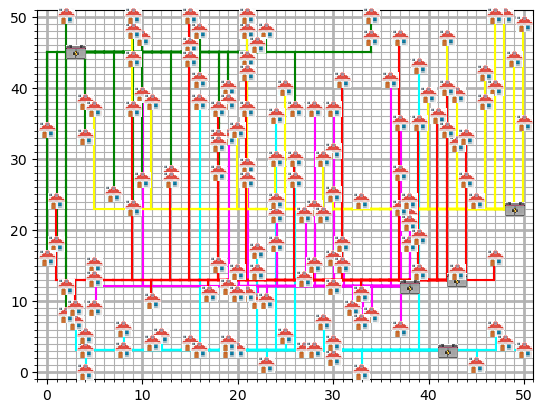
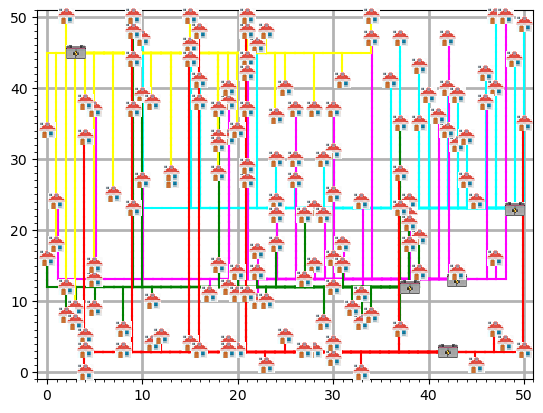
Tests kan nu ook drawen, maar main moet nu rootpath append hebben

Changed region(s): [[0.0589, 0.0291, 0.9724, 0.9007]]

diff --git a/visualisation/plot_grid.py b/visualisation/plot_grid.py
@@ -5,6 +5,13 @@ import matplotlib.lines as mlines
 from matplotlib.offsetbox import TextArea, DrawingArea, AnnotationBbox, OffsetImage
 import numpy as np
 from models.Grid import Grid
+import os
+import sys
+
+# Zet root-pad goed om de modules vanaf CLI te laden
+os.chdir(os.path.dirname(os.path.abspath(__file__)))
+root_path = os.path.dirname(os.getcwd())
+sys.path.append(root_path)
 
 # Functie: tekent grid
 def draw(grid):
@@ -30,7 +37,7 @@ def draw(grid):
     # Maak een grid van deze multidimensional array
     # Alpha is alleen transparency
     ax.grid(which='major', alpha=10, linewidth=2)
-    ax.grid(which='minor', alpha=1)
+    ax.grid(which='minor', alpha=0)
 
     # https://www.science-emergence.com/Articles/How-to-insert-an-image-a-picture-or-a-photo-in-a-matplotlib-figure/
     # https://gist.github.com/ppizarror/a36d214fd38a029cb80b7363bb133023
@@ -39,11 +46,10 @@ def draw(grid):
         batterij_x = int(batterij.get_locatie()[0])
         batterij_y = int(batterij.get_locatie()[1])
 
-        photo_battery = mpimg.imread('images/batterij_mini_mini.png')
+        photo_battery = mpimg.imread(f'{root_path}/images/batterij_mini_mini.png')
         imagebox2 = OffsetImage(photo_battery, zoom=1)
         addition_photo2 = AnnotationBbox(imagebox2, (batterij_x, batterij_y), frameon=False)
         ax.add_artist(addition_photo2)
-
         huizen = batterij.get_huizen()
         kleuren = ["cyan", "magenta", "green", "yellow", "red"]
 
@@ -51,7 +57,7 @@ def draw(grid):
             huis_x = int(huis.get_locatie()[0])
             huis_y = int(huis.get_locatie()[1])
 
-            photo_house = mpimg.imread('images/huis_mini_mini.png')
+            photo_house = mpimg.imread(f'{root_path}/images/huis_mini_mini.png')
             imagebox = OffsetImage(photo_house, zoom=1)
             addition_photo = AnnotationBbox(imagebox, (huis_x, huis_y), frameon=False)
             ax.add_artist(addition_photo)
@@ -81,7 +87,7 @@ def draw(grid):
                 except IndexError:
                     pass
 
-    plt.savefig('images/add_picture_matplotlib_figure.png',bbox_inches='tight', transparent=True)
+    plt.savefig(f'{root_path}/images/add_picture_matplotlib_figure.png',bbox_inches='tight', transparent=True)
 
     # Toon de plot
     plt.show()

diff --git a/tests/test.py b/tests/test.py
@@ -12,6 +12,7 @@ sys.path.append(root_path)
 from models.Grid import Grid
 from algorithms.randomize_dist_cap import dist_cap_algorithm
 from algorithms.randomize import rand_algorithm, rand_one_to_one_algorithm
+from visualisation.plot_grid import draw
 
 # Main functie
 def main():
@@ -48,7 +49,11 @@ def main():
 
     # Base-line worst-case, best-case
     slechtste_prijs = 0
-    beste_prijs = 1000000
+
+    grid_beste = Grid(wijk, f"{root_path}/data/wijk{wijk}_huizen.csv", f"{root_path}/data/wijk{wijk}_batterijen.csv")
+    algorithm(grid_beste)
+
+    eind_beste_prijs = grid_beste.get_totale_prijs()
 
     print("Running algorithm, please wait...")
     start_time = time.time()
@@ -60,12 +65,15 @@ def main():
         if eind_prijs > slechtste_prijs:
             slechtste_prijs = eind_prijs
 
-        if eind_prijs < beste_prijs:
-            beste_prijs = eind_prijs
+        if eind_prijs < eind_beste_prijs:
+            eind_beste_prijs = eind_prijs
+            grid_beste = grid
 
     print(f"Highest cost found: {slechtste_prijs}")
-    print(f"Lowest cost found: {beste_prijs}")
+    print(f"Lowest cost found: {eind_beste_prijs}")
     print("--- %s seconds runtime ---" % (time.time() - start_time))
+
+    draw(grid_beste)
 
 if __name__=="__main__":
     main()

diff --git a/main.py b/main.py
@@ -6,6 +6,13 @@ from models.Grid import Grid
 from algorithms.randomize_dist_cap import dist_cap_algorithm
 from algorithms.randomize import rand_algorithm, rand_one_to_one_algorithm
 from visualisation.plot_grid import draw
+import os
+import sys
+
+# Zet root-pad goed om de modules vanaf CLI te laden
+os.chdir(os.path.dirname(os.path.abspath(__file__)))
+root_path = os.path.dirname(os.getcwd())
+sys.path.append(root_path)
 
 # Main functie
 def main():
@@ -31,7 +38,9 @@ def main():
     algorithms = {'1': dist_cap_algorithm, '2': rand_one_to_one_algorithm, '3': rand_algorithm}
     algorithm = algorithms[sys_algorithm]
 
-    grid = Grid(wijk, f"data/wijk{wijk}_huizen.csv", f"data/wijk{wijk}_batterijen.csv")
+    grid = Grid(wijk, f"{root_path}/data/wijk{wijk}_huizen.csv", f"{root_path}/data/wijk{wijk}_batterijen.csv")
+
+    print(grid.get_huizen())
 
     # Voer algoritme op grid uit
     algorithm(grid)

diff --git a/algorithms/randomize.py b/algorithms/randomize.py
@@ -17,7 +17,7 @@ def rand_algorithm(grid):
     randomize_objects(huizen, batterijen)
 
     # Sluit alles random aan tot alle huizen aangesloten zijn
-    while grid.is_everything_connected() is not True:
+    while grid.is_everything_connected() is False:
         huis = choice(huizen)
         batterij = choice(batterijen)
         batterij.lay_cable(huis)
